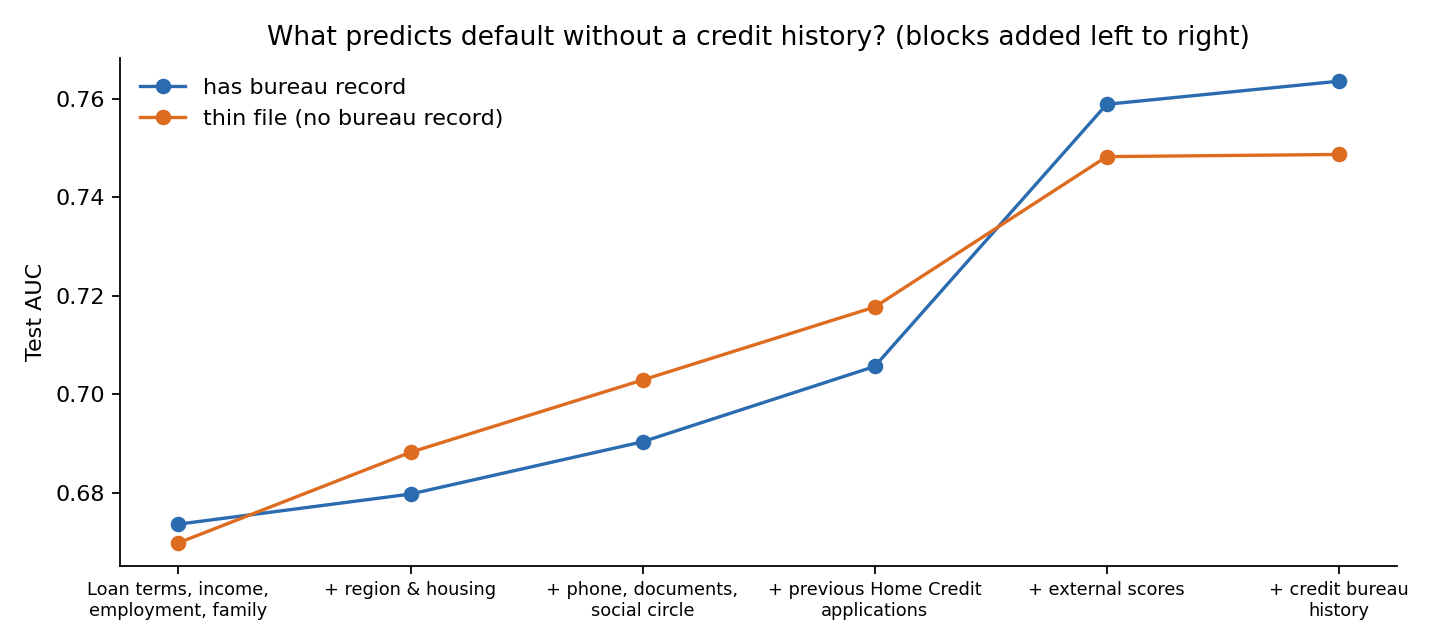
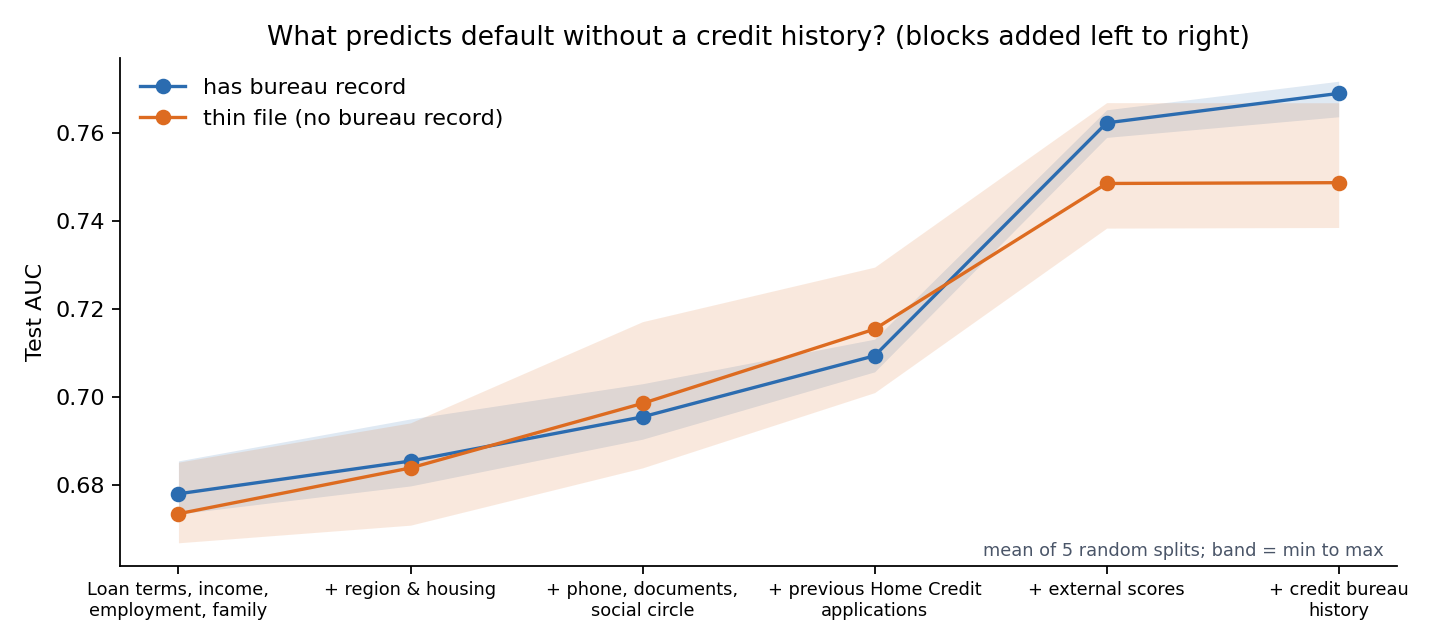
Rerun feature ablation over 5 random splits; update figure and README

diff --git a/src/analysis.py b/src/analysis.py
@@ -45,21 +45,21 @@ def load():
     return df, blocks
 
 
-def split(df):
+def split(df, seed=SEED):
     strata = df["TARGET"].astype(str) + "_" + df["thin_file"]
-    train, rest = train_test_split(df, test_size=0.4, stratify=strata, random_state=SEED)
-    valid, test = train_test_split(rest, test_size=0.5, stratify=strata.loc[rest.index], random_state=SEED)
+    train, rest = train_test_split(df, test_size=0.4, stratify=strata, random_state=seed)
+    valid, test = train_test_split(rest, test_size=0.5, stratify=strata.loc[rest.index], random_state=seed)
     return train, valid, test
 
 
 # ---------- models ----------
 
-def fit_xgb(train, valid, cols):
+def fit_xgb(train, valid, cols, seed=SEED):
     model = xgb.XGBClassifier(
         n_estimators=3000, learning_rate=0.05, max_depth=5, min_child_weight=20,
         subsample=0.8, colsample_bytree=0.6, reg_lambda=5,
         tree_method="hist", enable_categorical=True, eval_metric="auc",
-        early_stopping_rounds=100, random_state=SEED, n_jobs=-1,
+        early_stopping_rounds=100, random_state=seed, n_jobs=-1,
     )
     model.fit(train[cols], train["TARGET"], eval_set=[(valid[cols], valid["TARGET"])], verbose=False)
     return model
@@ -126,12 +126,12 @@ def group_audit(test, pred_col, cutoff, rng):
     return pd.DataFrame(rows)
 
 
-def ablation(train, valid, test, blocks):
+def ablation(train, valid, test, blocks, seed=SEED):
     """Add feature blocks cumulatively; score thin-file and thick-file test borrowers separately."""
     rows, cols = [], []
     for block in ABLATION:
         cols = cols + [c for c, b in blocks.items() if b == block]
-        model = fit_xgb(train, valid, cols)
+        model = fit_xgb(train, valid, cols, seed)
         p = model.predict_proba(test[cols])[:, 1]
         for level, d in test.assign(p=p).groupby("thin_file"):
             rows.append({"added_block": block, "n_features": len(cols), "segment": level,

diff --git a/src/plots.py b/src/plots.py
@@ -44,13 +44,23 @@ def fig_audit():
 
 
 def fig_ablation():
-    d = pd.read_csv(RES / "ablation.csv").pivot(index="added_block", columns="segment", values="auc")
     order = list(LABELS)
-    d = d.loc[order]
+    seeds_file = RES / "ablation_seeds.csv"
+    runs = pd.read_csv(seeds_file if seeds_file.exists() else RES / "ablation.csv")
+    stats = runs.groupby(["added_block", "segment"])["auc"].agg(["mean", "min", "max"]).reset_index()
+    n_seeds = runs["seed"].nunique() if "seed" in runs else 1
+
     fig, ax = plt.subplots(figsize=(9, 4))
-    x = range(len(d))
-    ax.plot(x, d["has bureau record"], "o-", color=BLUE, label="has bureau record")
-    ax.plot(x, d["thin file"], "o-", color=ORANGE, label="thin file (no bureau record)")
+    x = range(len(order))
+    for segment, color, label in [("has bureau record", BLUE, "has bureau record"),
+                                  ("thin file", ORANGE, "thin file (no bureau record)")]:
+        s = stats[stats["segment"] == segment].set_index("added_block").loc[order]
+        ax.plot(x, s["mean"], "o-", color=color, label=label)
+        if n_seeds > 1:
+            ax.fill_between(x, s["min"], s["max"], color=color, alpha=0.15, lw=0)
+    if n_seeds > 1:
+        ax.text(0.99, 0.02, f"mean of {n_seeds} random splits; band = min to max",
+                transform=ax.transAxes, ha="right", fontsize=8, color="#4a5568")
     ax.set_xticks(list(x), [LABELS[b] for b in order], fontsize=8)
     ax.set_ylabel("Test AUC")
     ax.set_title("What predicts default without a credit history? (blocks added left to right)")

diff --git a/src/ablation_seeds.py b/src/ablation_seeds.py
@@ -1,0 +1,40 @@
+"""Rerun the thin-file ablation over several random splits.
+
+The single-split ablation in analysis.py shows gaps of 0.01-0.05 AUC between steps.
+This script repeats it over 5 different train/valid/test splits (and model seeds) and reports
+the mean and spread, so we can tell which differences are real and which are split noise.
+
+Writes results/ablation_seeds.csv (one row per seed x block x segment)
+and results/ablation_seeds_summary.csv (mean, sd, min, max).
+"""
+import pandas as pd
+
+from analysis import RES, ablation, load, split
+
+SEEDS = [42, 7, 123, 2024, 31]
+
+
+def main():
+    df, blocks = load()
+    runs = []
+    for seed in SEEDS:
+        print(f"seed {seed}")
+        train, valid, test = split(df, seed)
+        runs.append(ablation(train, valid, test, blocks, seed).assign(seed=seed))
+    runs = pd.concat(runs)
+    runs.to_csv(RES / "ablation_seeds.csv", index=False)
+
+    # The thin-vs-thick gap within each seed is less noisy than either AUC alone.
+    wide = runs.pivot_table(index=["seed", "added_block"], columns="segment", values="auc").reset_index()
+    wide["gap_thin_minus_thick"] = wide["thin file"] - wide["has bureau record"]
+    summary = (
+        wide.groupby("added_block", sort=False)[["has bureau record", "thin file", "gap_thin_minus_thick"]]
+        .agg(["mean", "std", "min", "max"])
+        .round(4)
+    )
+    summary.to_csv(RES / "ablation_seeds_summary.csv")
+    print(summary)
+
+
+if __name__ == "__main__":
+    main()

diff --git a/README.md b/README.md
@@ -37,12 +37,14 @@ The youngest borrowers fare worst overall: 29% of under-30s who repaid would hav
 
 ![Feature ablation](results/fig2_ablation.png)
 
-**3. Without a credit history, alternative data does a lot of the work.** I added feature blocks one at a time and retrained each time:
+**3. Without a credit history, alternative data does a lot of the work.** I added feature blocks one at a time and retrained each time, repeating the whole thing over 5 random splits (`src/ablation_seeds.py`; the figure shows the mean and the min–max band):
 
-- Using only the application (loan terms, income, employment, family), the model ranks both groups about equally (AUC ~0.67).
-- Phone, document and "social circle" flags, plus a borrower's **earlier applications at the same lender**, help thin-file borrowers more (+0.048 AUC from the base vs +0.032). At this stage the model ranks thin-file borrowers *better* than everyone else (0.718 vs 0.706).
-- **External credit scores** close most of the remaining gap for borrowers with a bureau record (+0.053) but help thin-file borrowers less (+0.030). One of the three scores (`EXT_SOURCE_3`) is missing for 97% of thin-file applicants vs 7% of the others, so it's probably built from bureau data.
-- Raw bureau history adds little on top of that (+0.005), because the external scores already summarize it.
+- Using only the application (loan terms, income, employment, family), the model ranks both groups about equally (AUC ~0.68).
+- Phone, document and "social circle" flags, plus a borrower's **earlier applications at the same lender**, help thin-file borrowers more: +0.042 AUC on average (range 0.034–0.048) vs +0.032 (0.028–0.034). Thin-file borrowers gained more in all 5 splits. At this stage the two groups are ranked about equally well (gap +0.006, range −0.011 to +0.022).
+- **External credit scores** help borrowers with a bureau record much more: +0.053 (0.050–0.056) vs +0.033 (0.029–0.039), again in every split. One of the three scores (`EXT_SOURCE_3`) is missing for 97% of thin-file applicants vs 7% of the others, so it's probably built from bureau data.
+- Raw bureau history adds little on top of that (+0.007), because the external scores already summarize it. In the full model, thin-file borrowers are ranked less well in every split (gap −0.020, range −0.033 to −0.005).
+
+So the thin-file gap appears when the bureau-based scores come in, not before. That points to better alternative data, not a different model, as the lever for closing it.
 
 A separate model trained only on thin-file borrowers did **worse** for them than the pooled model (AUC 0.741 vs 0.750). Pooling helps, since the patterns learned from borrowers with a bureau record carry over.
 
@@ -53,7 +55,7 @@ A separate model trained only on thin-file borrowers did **worse** for them than
 - **Selective labels.** Outcomes exist only for loans Home Credit actually approved, so this says nothing about applicants who were rejected outright. A real evaluation would need reject inference or, better, an experiment that randomizes approval near the cutoff.
 - "Rejected good borrowers" is measured under a hypothetical single cutoff, not Home Credit's real policy. Group-specific cutoffs or a different approval rate would change the numbers.
 - Thin file is defined as "no bureau record". It doesn't separate people who never borrowed from people whose records weren't matched.
-- The ablation uses one train/test split. The AUC gaps between steps are in the 0.01–0.05 range, so I'd rerun them over several seeds before relying on the smaller differences.
+- The ablation is repeated over 5 splits, but the group audit (fig. 1) uses one split with bootstrap CIs. Five seeds is enough to tell a robust direction from noise, not to give tight intervals.
 - The country isn't disclosed in the data, so the results are about a method more than a specific market.
 
 ## Run
@@ -64,6 +66,7 @@ pip install -r requirements.txt
 # https://www.kaggle.com/c/home-credit-default-risk/data into data/raw/
 python src/features.py   # ~1 min, writes data/features.parquet
 python src/analysis.py   # ~10 min on a laptop, writes results/*.csv and summary.json
+python src/ablation_seeds.py  # ~25 min, reruns the ablation over 5 splits
 python src/plots.py      # writes results/fig*.png
 ```
 
@@ -71,6 +74,7 @@ python src/plots.py      # writes results/fig*.png
 |---|---|
 | `src/features.py` | Cleaning (e.g. the `DAYS_EMPLOYED = 365243` placeholder), affordability ratios, bureau and previous-application aggregates, feature blocks |
 | `src/analysis.py` | Split, models, group audit with bootstrap CIs, within-age comparison, ablation, contributions |
+| `src/ablation_seeds.py` | The ablation repeated over 5 random splits |
 | `src/plots.py` | Figures |
 | `results/group_audit.csv` | Every group metric for both models |
 
